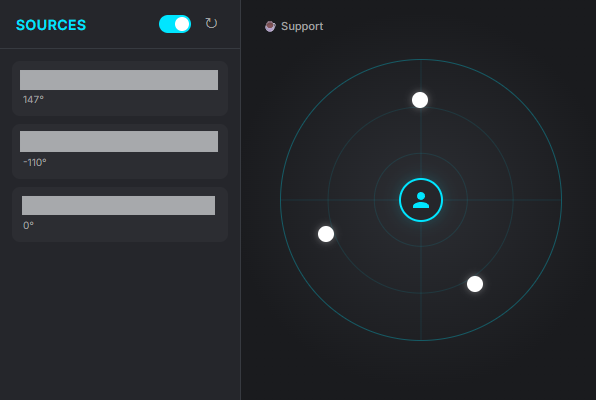
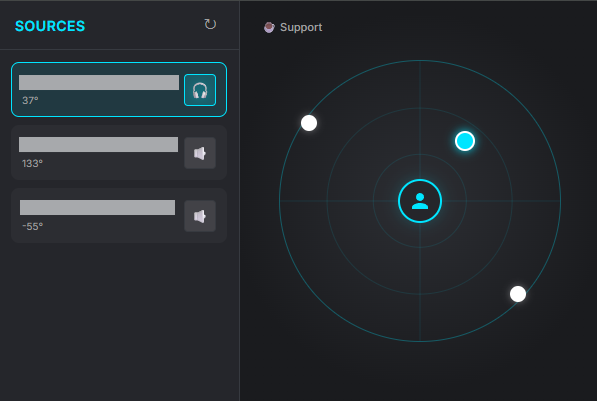
Release 1.0.0: Refactor to 360-only mode and update manifest
- Update manifest version to 1.0.0 and improve description
- Remove global Stereo/360 toggle switch (defaulting to 360 spatial audio)
- Refactor background.js and content.js to simplify mode management
- Update popup UI to remove the mode switch
- Fix undefined variable error in background.js
- Update README.md to reflect usage changes

diff --git a/content.js b/content.js
@@ -12,7 +12,6 @@ class AudioGraph {
       lowShelf: null,  // [NEW] ASMR Bass
       highShelf: null  // [NEW] ASMR Detail
     };
-    this.mode = 'stereo'; // Global: 'stereo' | '360'
     this.panningMode = 'HRTF'; // Tab-specific: 'HRTF' (Binaural) | 'equalpower' (Speaker)
     this.videoElement = null;
     this.isAttached = false;
@@ -116,11 +115,7 @@ class AudioGraph {
     }
   }
 
-  setMode(newMode) {
-    if (this.mode === newMode) return;
-    this.mode = newMode;
-    this._connectGraph();
-  }
+
 
   // [NEW] Apply rich state
   applyState(degrees, radius, panningMode) {
@@ -133,17 +128,13 @@ class AudioGraph {
     }
 
     // [NEW] Binaural ASMR Effect
-    if (this.mode === '360' && this.panningMode === 'HRTF') {
+    if (this.panningMode === 'HRTF') {
       this._applyAsmrEffect(radius);
     } else {
       this._resetAsmrEffect();
     }
 
-    if (this.mode === '360') {
-      this._apply360(degrees, radius);
-    } else {
-      this._applyStereo(degrees);
-    }
+    this._apply360(degrees, radius);
   }
 
   // [NEW] Proximity EQ
@@ -211,24 +202,20 @@ class AudioGraph {
     try { this.nodes.hrtfR.disconnect(); } catch (e) { }
 
     // Connect based on mode
-    if (this.mode === '360') {
-      // Source -> LowShelf -> HighShelf -> Splitter -> Panners
-      this.source.connect(this.nodes.lowShelf);
-      this.nodes.lowShelf.connect(this.nodes.highShelf);
-      this.nodes.highShelf.connect(this.nodes.splitter);
+    // Source -> LowShelf -> HighShelf -> Splitter -> Panners
+    this.source.connect(this.nodes.lowShelf);
+    this.nodes.lowShelf.connect(this.nodes.highShelf);
+    this.nodes.highShelf.connect(this.nodes.splitter);
 
-      this.nodes.splitter.connect(this.nodes.hrtfL, 0);
-      this.nodes.splitter.connect(this.nodes.hrtfR, 1);
-      this.nodes.hrtfL.connect(this.ctx.destination);
-      this.nodes.hrtfR.connect(this.ctx.destination);
+    this.nodes.splitter.connect(this.nodes.hrtfL, 0);
+    this.nodes.splitter.connect(this.nodes.hrtfR, 1);
+    this.nodes.hrtfL.connect(this.ctx.destination);
+    this.nodes.hrtfR.connect(this.ctx.destination);
 
-      // Ensure attributes are correct for current panningMode
-      this._updatePannerAttributes();
-    } else {
-      this.source.connect(this.nodes.stereo);
-      this.nodes.stereo.connect(this.ctx.destination);
-    }
-    console.log(`[Spatial Splitter] Global Mode: ${this.mode}`);
+    // Ensure attributes are correct for current panningMode
+    this._updatePannerAttributes();
+
+    console.log(`[Spatial Splitter] Audio Graph Connected (360 Only)`);
   }
 
   _apply360(degrees, radius = 1.0) {
@@ -256,15 +243,7 @@ class AudioGraph {
     if (this.nodes.hrtfR) setPosition(this.nodes.hrtfR, angleR, radius);
   }
 
-  _applyStereo(degrees) {
-    let pan = degrees / 90;
-    if (pan < -1) pan = -1;
-    if (pan > 1) pan = 1;
 
-    if (this.nodes.stereo) {
-      this.nodes.stereo.pan.setTargetAtTime(pan, this.ctx.currentTime, 0.1);
-    }
-  }
 }
 
 // --- Main Execution ---
@@ -295,13 +274,6 @@ function scanForVideo() {
 // Messages
 chrome.runtime.onMessage.addListener((message, sender, sendResponse) => {
   if (message.type === "APPLY_STATE") {
-    // 1. Update Global Mode (Stereo/360)
-    if (message.globalMode) {
-      audioGraph.setMode(message.globalMode);
-    } else if (message.mode && (message.mode === 'stereo' || message.mode === '360')) {
-      // Legacy fallback if 'mode' contains global mode
-      audioGraph.setMode(message.mode);
-    }
 
     // 2. Update Tab State & Audio
     // message.mode might be 'speaker'/'binaural' now

diff --git a/background.js b/background.js
@@ -4,11 +4,9 @@ class StateManager {
   constructor() {
     this.activeVideoTabs = new Set();
     this.tabStates = new Map(); // [NEW] Map<tabId, {angle, radius, mode}>
-    this.audioMode = 'stereo';
 
     this.STORAGE_KEY_STATES = 'tabStates'; // [NEW]
     this.STORAGE_KEY_ANGLES = 'tabAngles'; // Legacy
-    this.STORAGE_KEY_MODE = 'audioMode';
   }
 
   async init() {
@@ -22,7 +20,7 @@ class StateManager {
   }
 
   async _load() {
-    const data = await chrome.storage.local.get([this.STORAGE_KEY_STATES, this.STORAGE_KEY_ANGLES, this.STORAGE_KEY_MODE]);
+    const data = await chrome.storage.local.get([this.STORAGE_KEY_STATES, this.STORAGE_KEY_ANGLES]);
 
     // 1. Try load new states
     if (data[this.STORAGE_KEY_STATES]) {
@@ -36,17 +34,12 @@ class StateManager {
         this.tabStates.set(parseInt(key), { angle: angle, radius: 1.0, mode: 'speaker' });
       }
     }
-
-    if (data[this.STORAGE_KEY_MODE]) {
-      this.audioMode = data[this.STORAGE_KEY_MODE];
-    }
   }
 
   _save() {
     const statesObj = Object.fromEntries(this.tabStates);
     chrome.storage.local.set({
-      [this.STORAGE_KEY_STATES]: statesObj,
-      [this.STORAGE_KEY_MODE]: this.audioMode
+      [this.STORAGE_KEY_STATES]: statesObj
     });
   }
 
@@ -89,20 +82,12 @@ class StateManager {
     }
   }
 
-  setMode(mode) {
-    this.audioMode = mode;
-    this._save();
-    // Broadcast to all
-    for (const tabId of this.activeVideoTabs) {
-      this.broadcastStateToTab(tabId);
-    }
-  }
+
 
   getStatus() {
     return {
       activeVideoTabs: Array.from(this.activeVideoTabs),
-      tabStates: Object.fromEntries(this.tabStates),
-      audioMode: this.audioMode
+      tabStates: Object.fromEntries(this.tabStates)
     };
   }
 
@@ -113,8 +98,7 @@ class StateManager {
         type: "APPLY_STATE",
         angle: state.angle,
         radius: state.radius,
-        mode: state.mode,
-        globalMode: this.audioMode // Send global mode context too if needed
+        mode: state.mode
       });
     } catch (e) {
       // Tab might be loading or closed
@@ -164,9 +148,7 @@ chrome.runtime.onMessage.addListener((message, sender, sendResponse) => {
   else if (message.type === "SET_ANGLE") { // [Legacy Support]
     stateManager.setState(message.tabId, { angle: message.angle });
   }
-  else if (message.type === "SET_MODE") {
-    stateManager.setMode(message.mode);
-  }
+
   else if (message.type === "PERSIST_STATE") {
     stateManager._save();
   }

diff --git a/popup/popup.js b/popup/popup.js
@@ -7,7 +7,6 @@ class PopupApp {
     this.tabAngles = {}; // Legacy simple map, kept for safety but tabStates is source of truth
     this.tabStates = {}; // [NEW] { tabId: { angle, radius, mode } }
     this.selectedTabId = null;
-    this.audioMode = 'stereo';
 
     // Dragging state
     this.isDragging = false;
@@ -18,8 +17,7 @@ class PopupApp {
     this.ui = {
       tabList: document.getElementById('tab-list'),
       radarContainer: document.getElementById('radar-container'),
-      refreshBtn: document.getElementById('refresh'),
-      modeToggle: document.getElementById('mode-toggle')
+      refreshBtn: document.getElementById('refresh')
     };
 
     // Constants
@@ -47,7 +45,6 @@ class PopupApp {
 
   init() {
     this.ui.refreshBtn.addEventListener('click', () => this.refresh());
-    this.ui.modeToggle.addEventListener('change', (e) => this.toggleMode(e));
 
     // Radar interaction: MouseDown for seamless move+drag
     this.ui.radarContainer.addEventListener('mousedown', (e) => this.handleRadarBackgroundMouseDown(e));
@@ -80,7 +77,6 @@ class PopupApp {
       });
 
       this.audioMode = audioMode || 'stereo';
-      this.ui.modeToggle.checked = (this.audioMode === '360');
 
       this.currentTabs = [];
       for (const tabId of activeVideoTabs) {
@@ -99,12 +95,7 @@ class PopupApp {
     }
   }
 
-  async toggleMode(e) {
-    const is360 = e.target.checked;
-    this.audioMode = is360 ? '360' : 'stereo';
-    await chrome.runtime.sendMessage({ type: "SET_MODE", mode: this.audioMode });
-    this.render();
-  }
+
 
   toggleTabMode(tabId) {
     if (!this.tabStates[tabId]) return;
@@ -358,12 +349,6 @@ class PopupApp {
     if (customDeg > 180) customDeg -= 360;
     if (customDeg < -180) customDeg += 360;
 
-    // Constraints based on Mode
-    if (this.audioMode === 'stereo') {
-      // Clamp to -90...90 (Front hemisphere only)
-      if (customDeg < -90) customDeg = -90;
-      if (customDeg > 90) customDeg = 90;
-    }
     // If '360', no clamp (-180 to 180 is fine)
     return customDeg;
   }

diff --git a/popup/popup.html b/popup/popup.html
@@ -14,10 +14,7 @@
       <div class="header">
         <h1>Sources</h1>
         <div class="controls">
-          <label class="switch" title="Toggle 360° Mode">
-            <input type="checkbox" id="mode-toggle">
-            <span class="slider round"></span>
-          </label>
+
           <button id="refresh" class="icon-btn" title="Refresh">↻</button>
         </div>
       </div>

diff --git a/README.md b/README.md
@@ -37,7 +37,7 @@ This isn't on the store yet (too cool for school), so you'll need to install it 
 1.  **Open YouTube**: Start playing videos in different tabs. The more the merrier!
 2.  **Open the Popup**: Click the extension icon.
 3.  **Speaker Mode (Default)**: Drag dots around the rim to balance left/right separation.
-4.  **Switch to Binaural**: Click the speaker icon (🔈) next to a video to switch to headset mode (🎧).
+4.  **Binaural Mode**: Click the speaker icon (🔈) next to a video to switch to headset mode (🎧).
 5.  **Experience 3D**: in Binaural mode, drag the dot *behind* you or *right next to your center* to hear the ASMR proximity effect!
 
 ## ☕ Support the Dev
